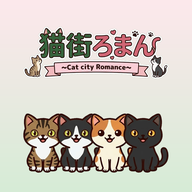
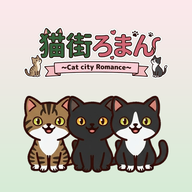
アイコンの ねこを きじとら・くろ・はちわれの 3びきに（ちゃしろを はずす）
Claude-Session: https://claude.ai/code/session_014rRhJFuEZwJnnUphhSEvc4

Changed region(s): [[0.0938, 0.5, 0.9062, 0.9062]]

diff --git a/tools/make_icons.py b/tools/make_icons.py
@@ -4,8 +4,8 @@
 （猫街三部作 cat-on-escape・white-squid の tools/make_icons.py と おなじ 図がら）
 
 ・桜色から 若草色への 角丸に、テーマ色（#2f5d3a）の わく
-・上に ロゴ、下に ねこ 4ひき（きじとら・はちわれ・ちゃしろ・くろ）が 座って ならぶ
-・小さい アイコン（64px 以下）は ロゴの 文字が つぶれるので、ねこ 2ひき（きじとら・はちわれ）だけ
+・上に ロゴ、下に ねこ 3びき（きじとら・くろ・はちわれ）が 座って ならぶ
+・小さい アイコン（64px 以下）は ロゴの 文字が つぶれるので、ねこ 2ひき（きじとら・くろ）だけ
 ・app/images/icon-32 / 180 / 192 / 512.png（ホーム画面用。OS が 角を 丸く 切るので わく なしの 全面ぬり）と、
   紹介ページ・ポータル用の assets/icon.png（512px）・assets/favicon.png（64px。角丸と わくつき）を 書き出す
 
@@ -28,7 +28,7 @@ RIM = (47, 93, 58)             # 紹介ページの テーマ色 #2f5d3a
 RADIUS = 0.19
 SMALL = 64
 LOGO = 'assets/logo.png'
-CATS = ['kijitora', 'hachiware', 'chashiro', 'kuro']
+CATS = ['kijitora', 'kuro', 'hachiware']
 OUT = [
     ('app/images/icon-512.png', 512),
     ('app/images/icon-192.png', 192),

diff --git a/README.md b/README.md
@@ -36,7 +36,7 @@
 | `app/images/animals.png` | クイズのかげあて用の動物9種（スプライトシート） |
 | `app/images/room.jpg` | 部屋の背景（窓・壁・床） |
 | `app/images/icon-*.png` | ホーム画面・タブ用のアイコン（`tools/make_icons.py` が生成） |
-| `tools/make_icons.py` | ロゴとねこ4匹（きじとら・はちわれ・ちゃしろ・くろ）からアイコン一式をつくる（猫街三部作で同じ図がら） |
+| `tools/make_icons.py` | ロゴとねこ3匹（きじとら・くろ・はちわれ）からアイコン一式をつくる（猫街三部作で同じ図がら） |
 | `app/manifest.json` | ホーム画面に追加したときの名前・アイコン・表示方法 |
 | `tools/build_cat_sheet.py` | 生成AIの出力から背景除去・整列を行う前処理 |
 | `docs/` | 画像を作り直すときの生成プロンプト |
@@ -360,7 +360,7 @@ var DEFAULT_CAT = 'cat-kijitora';
 全画面表示（`display: standalone`）で起動します。高齢の方がアプリのように使えるようにするためです。
 
 アイコンはOS側で角を丸く切り取られるため、白い角が残らないよう**全面を塗った四角**にしています
-（桜色から若草色のグラデーション。上にロゴ、下にねこ4匹）。`python3 tools/make_icons.py` で作り直せます。
+（桜色から若草色のグラデーション。上にロゴ、下にねこ3匹）。`python3 tools/make_icons.py` で作り直せます。
 
 ## 部屋の背景
 
